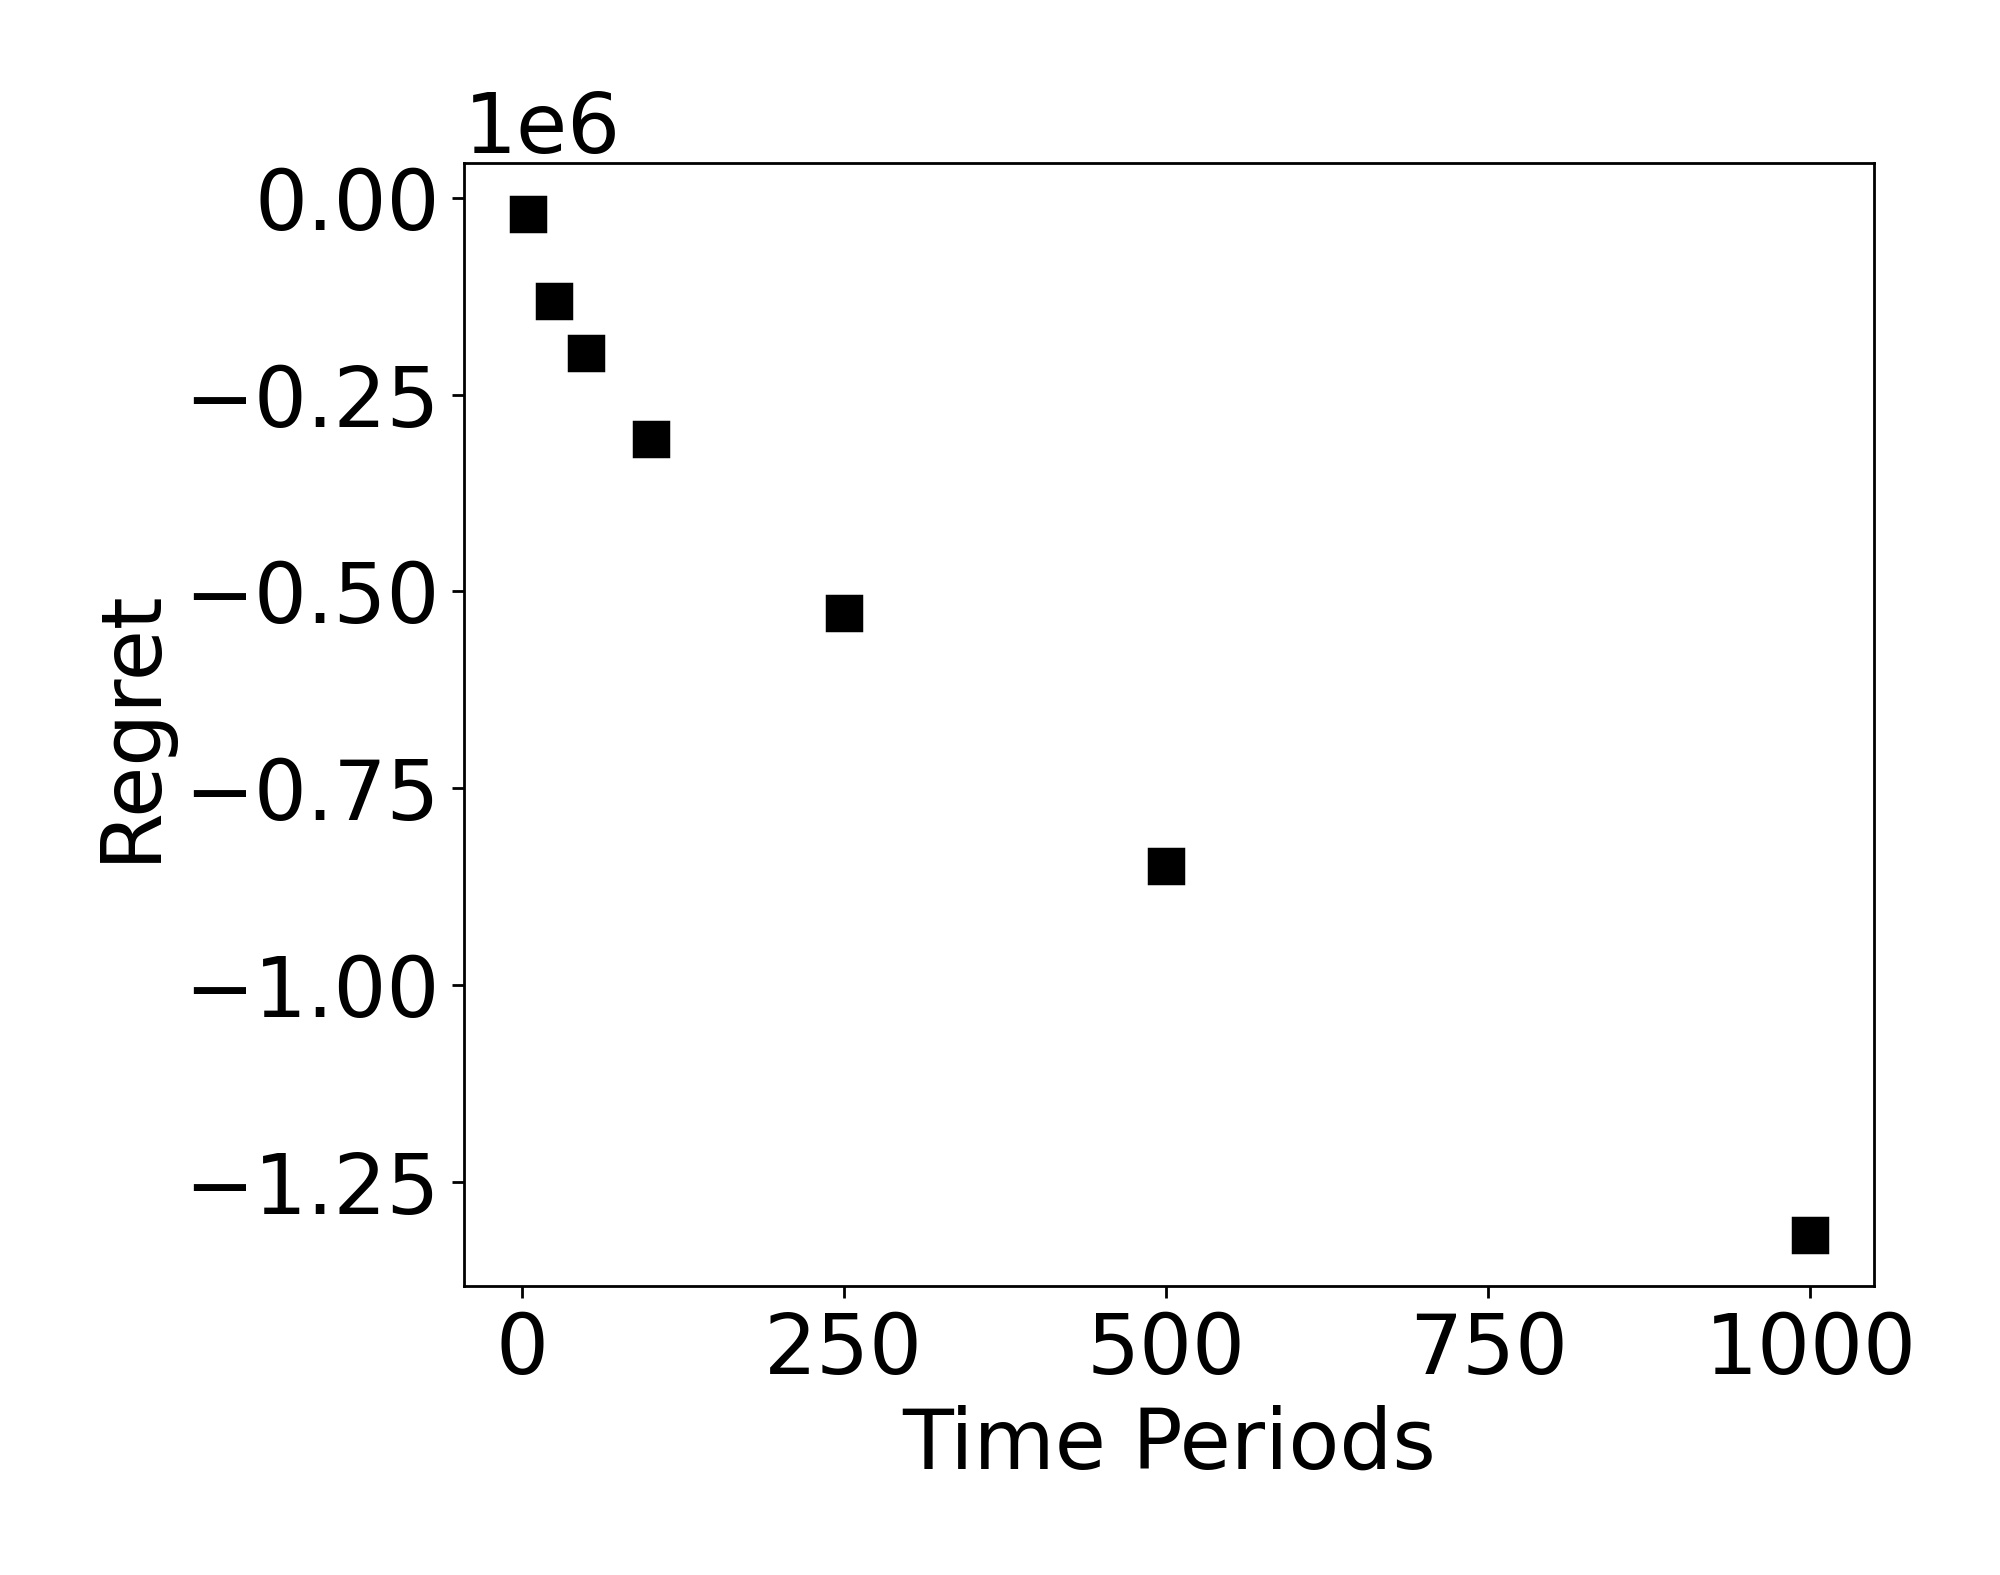
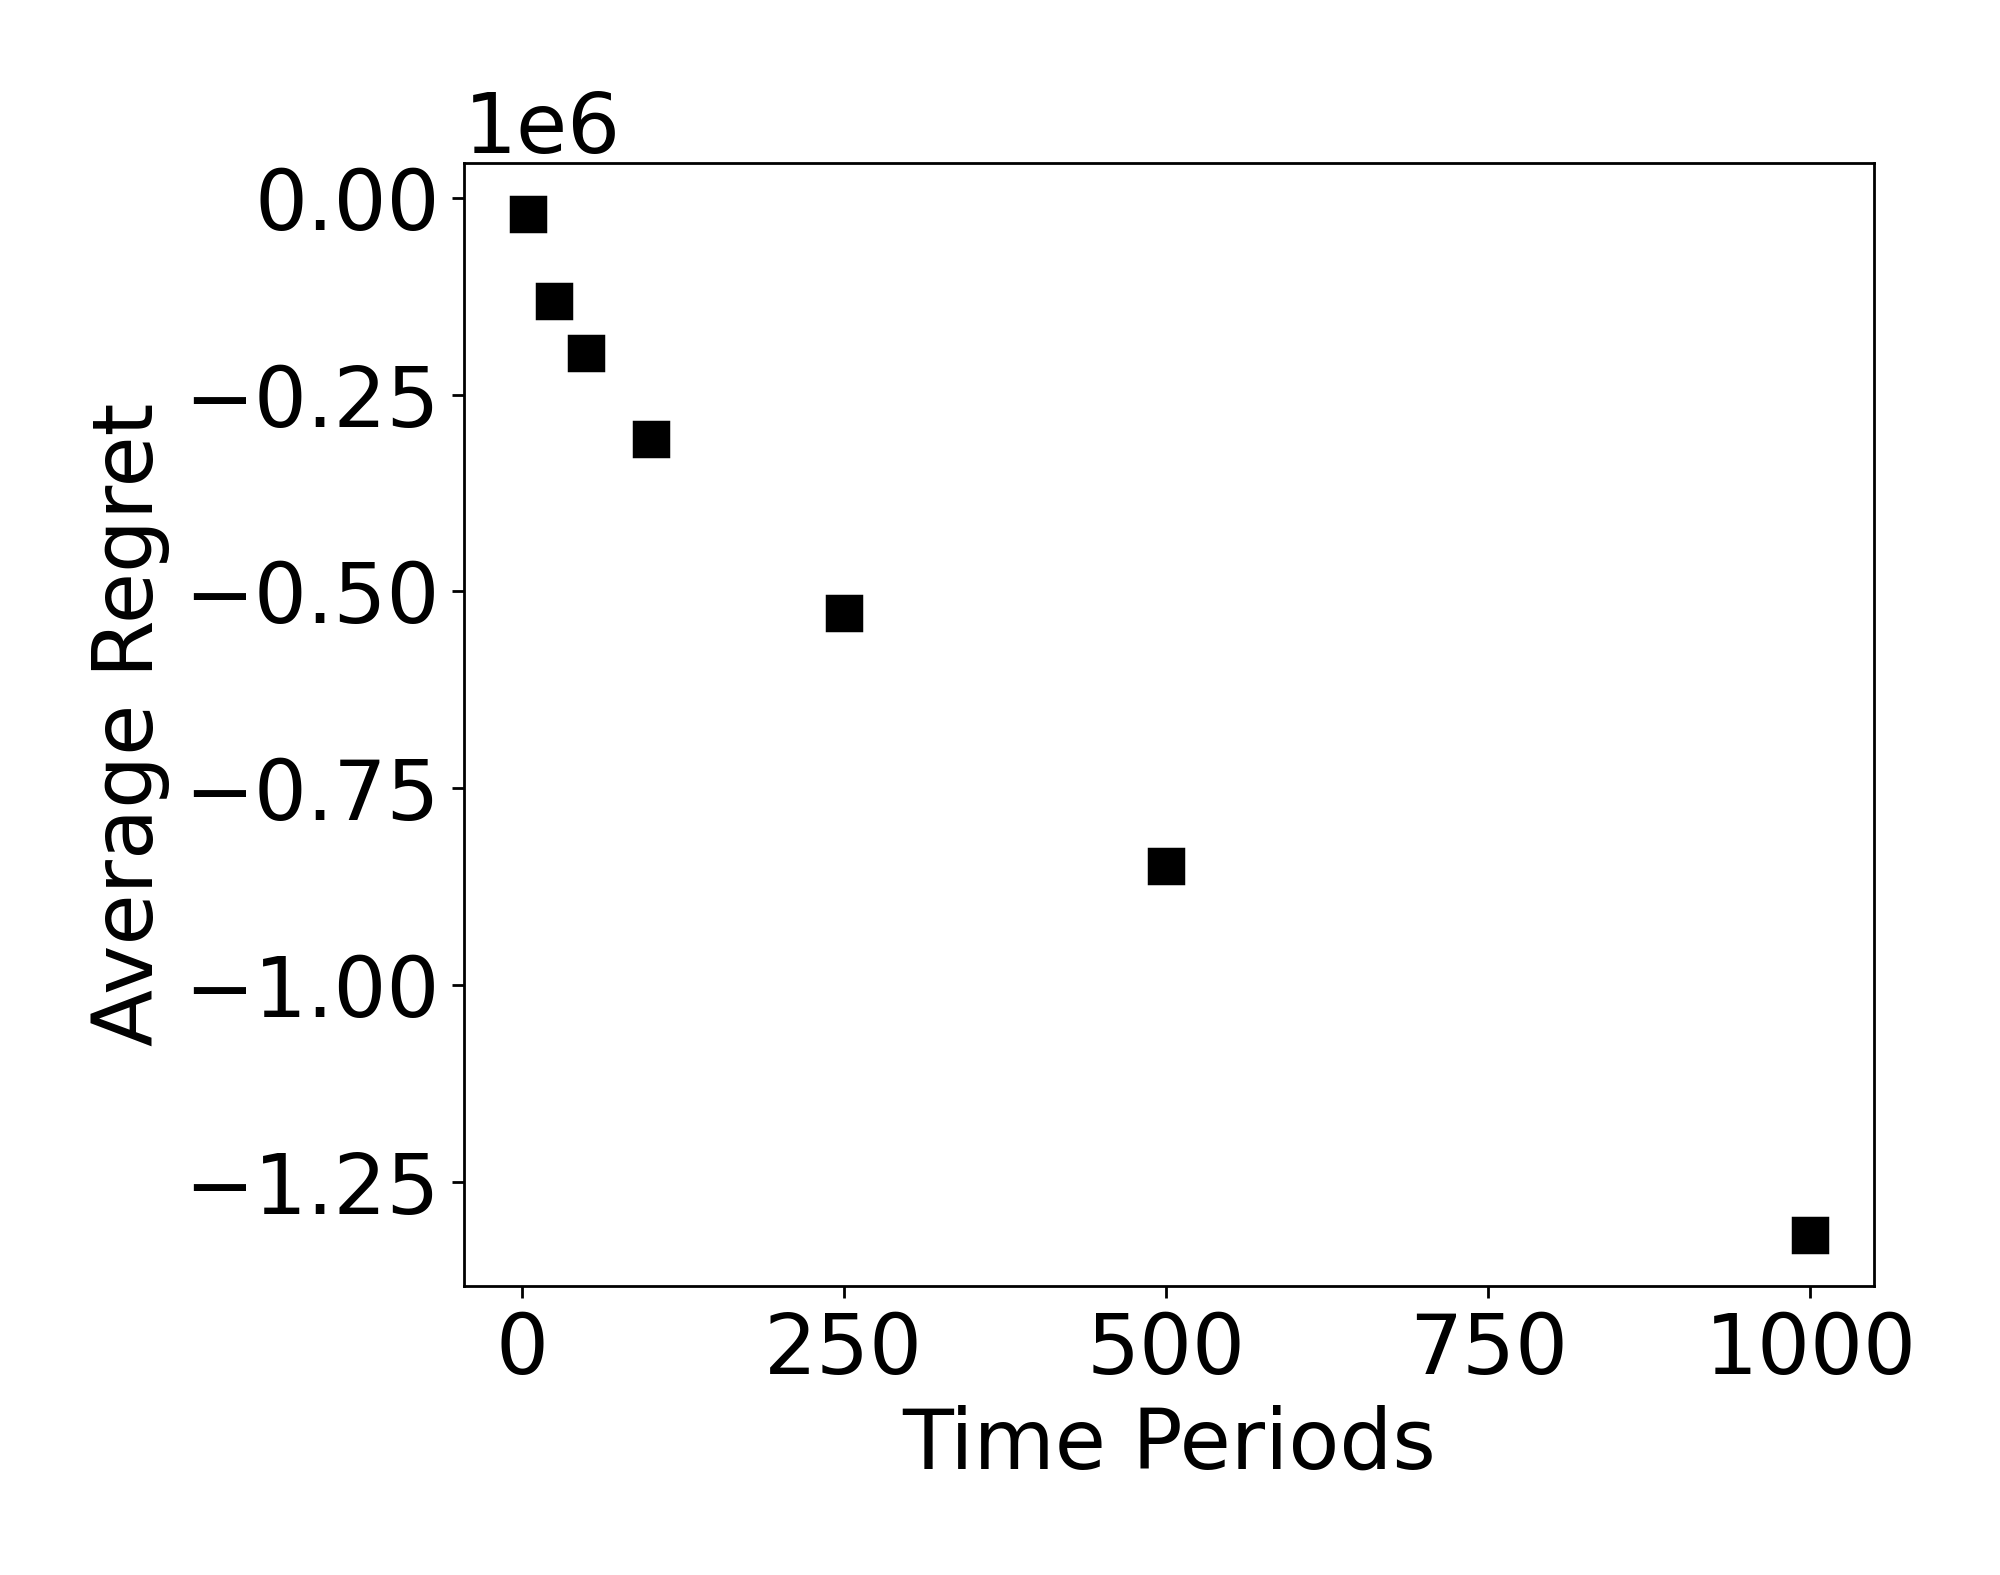
figure labels updated

Changed region(s): [[0.031, 0.2489, 0.093, 0.6533]]

diff --git a/plots.py b/plots.py
@@ -416,26 +416,26 @@ plt.rcParams['font.size'] = '18'
 fig, axes = plt.subplots(nrows=1, ncols=3)
 fig.set_size_inches(18, 6)
 
-axes[0].plot(df['T'], df['regret_gr_desc'], '*-', c='tab:blue', label='Algorithm 1')
+axes[0].plot(df['T'], df['regret_gr_desc'], '-', c='tab:blue', label='Algorithm 1')
 axes[0].plot(df['T'], df['regret_stochastic'], '*-', c='tab:orange', label='User mean VoT')
-axes[0].plot(df['T'], df['regret_no_vot'], '*-', c='tab:green', label='Population mean VoT')
-axes[0].plot(df['T'], df['regret_const_update'], '*-', c='tab:red', label='Reactive update')
+axes[0].plot(df['T'], df['regret_no_vot'], 'o-', c='tab:green', label='Population mean VoT')
+axes[0].plot(df['T'], df['regret_const_update'], 'D-', c='tab:red', label='Reactive update')
 axes[0].set_xlabel('Time Periods')
 axes[0].set_ylabel('Average Normalized Regret')
 axes[0].legend(loc="lower right")
 
-axes[1].plot(df['T'], df['vio_gr_desc'], '*-', c='tab:blue', label='Algorithm 1')
+axes[1].plot(df['T'], df['vio_gr_desc'], '-', c='tab:blue', label='Algorithm 1')
 axes[1].plot(df['T'], df['vio_stochastic'], '*-', c='tab:orange', label='User mean VoT')
-axes[1].plot(df['T'], df['vio_no_vot'], '*-', c='tab:green', label='Population mean VoT')
-axes[1].plot(df['T'], df['vio_const_update'], '*-', c='tab:red', label='Reactive update')
+axes[1].plot(df['T'], df['vio_no_vot'], 'o-', c='tab:green', label='Population mean VoT')
+axes[1].plot(df['T'], df['vio_const_update'], 'D-', c='tab:red', label='Reactive update')
 axes[1].set_xlabel('Time Periods')
 axes[1].set_ylabel('Average Normalized Capacity Violation')
 # axes[1].legend(loc="upper right")
 
-axes[2].plot(df['T'], 1 + df['ttt_gr_desc'], '*-', c='tab:blue', label='Algorithm 1')
+axes[2].plot(df['T'], 1 + df['ttt_gr_desc'], '-', c='tab:blue', label='Algorithm 1')
 axes[2].plot(df['T'], 1 + df['ttt_stochastic'], '*-', c='tab:orange', label='User mean VoT')
-axes[2].plot(df['T'], 1 + df['ttt_no_vot'], '*-', c='tab:green', label='Population mean VoT')
-axes[2].plot(df['T'], 1 + df['ttt_const_update'], '*-', c='tab:red', label='Reactive update')
+axes[2].plot(df['T'], 1 + df['ttt_no_vot'], 'o-', c='tab:green', label='Population mean VoT')
+axes[2].plot(df['T'], 1 + df['ttt_const_update'], 'D-', c='tab:red', label='Reactive update')
 axes[2].set_xlabel('Time Periods')
 axes[2].set_ylabel('Average Normalized Total Travel Time')
 # axes[2].legend(loc="lower right")
@@ -496,7 +496,7 @@ y = np.array(df['regret_gr_desc_not_normalized'])
 plt.figure(figsize=(8, 6.3), dpi=250)
 plt.plot(x, y, 's', linewidth=3, markersize=10, markeredgecolor='black', markerfacecolor='black', label='Algorithm 1')
 plt.xlabel('Time Periods')
-plt.ylabel('Regret')
+plt.ylabel('Average Regret')
 
 # plt.legend(frameon=False)
 plt.tight_layout()
